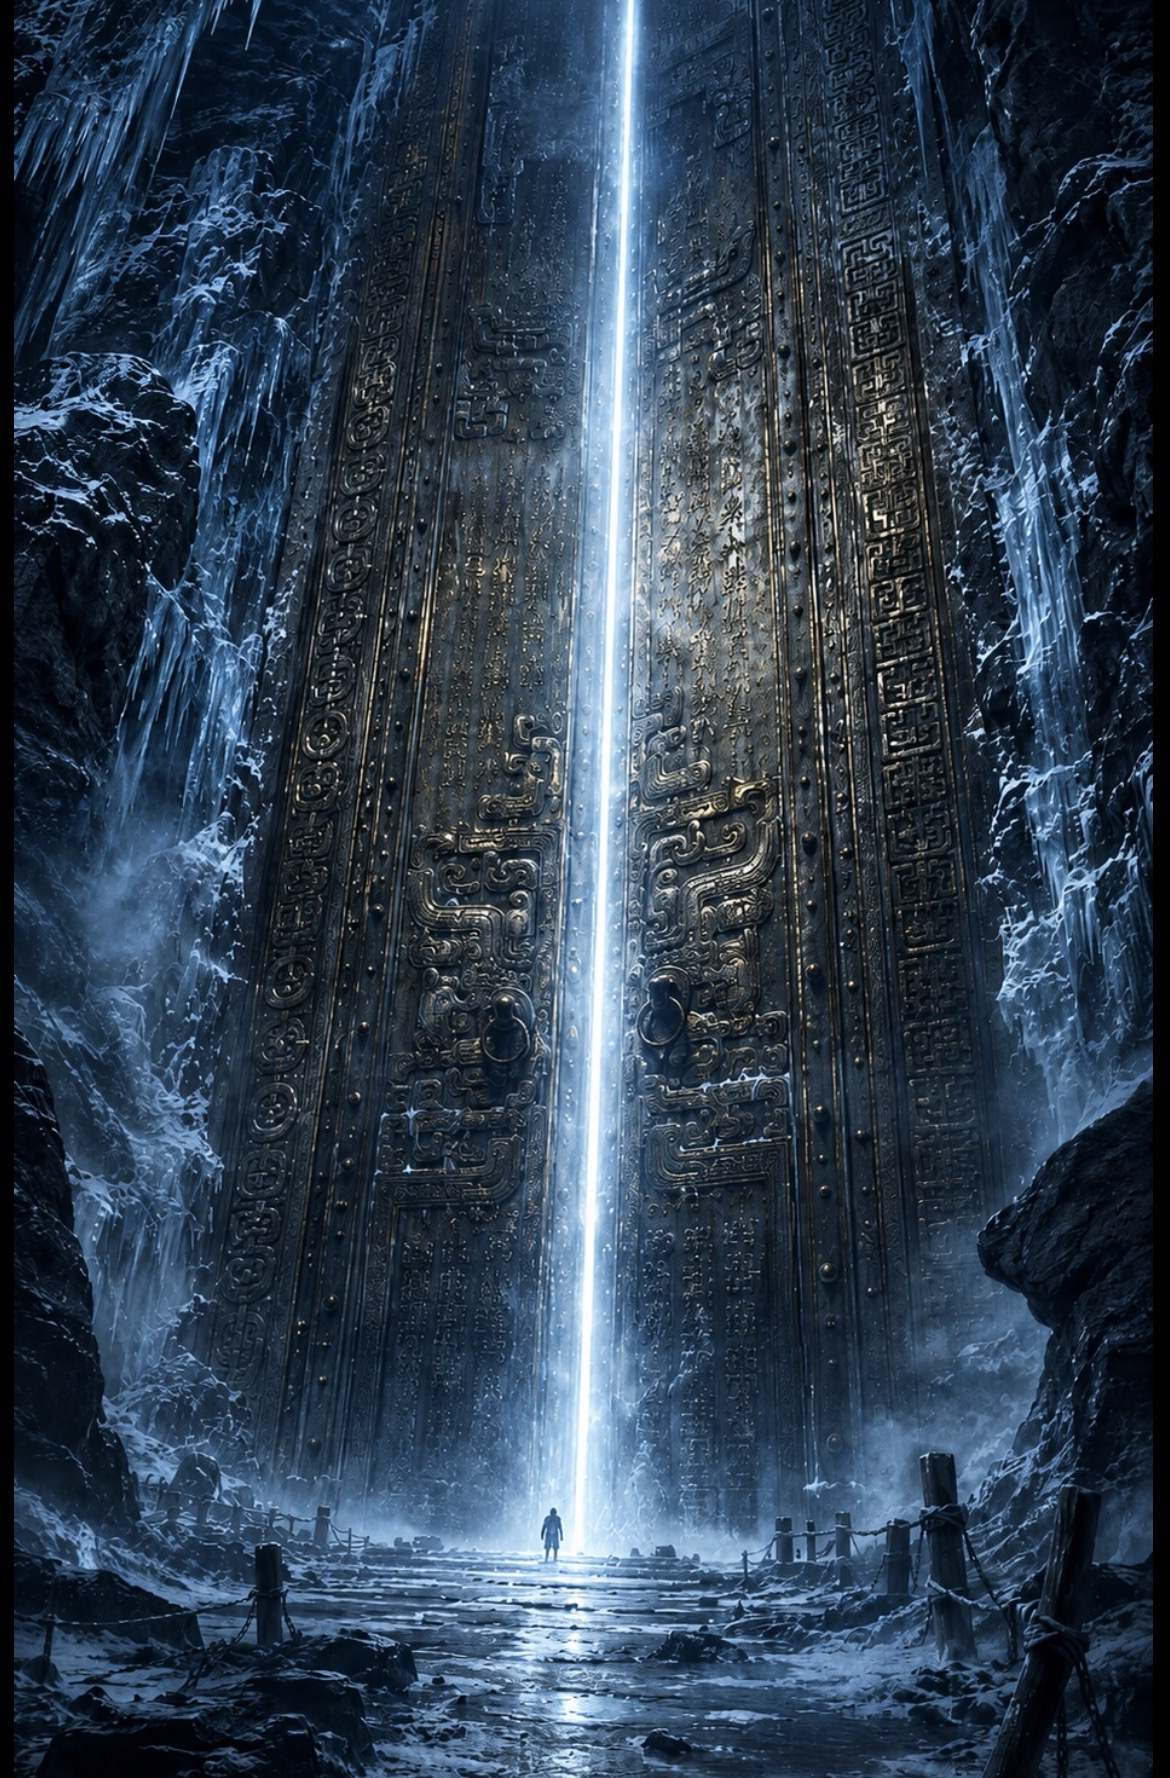
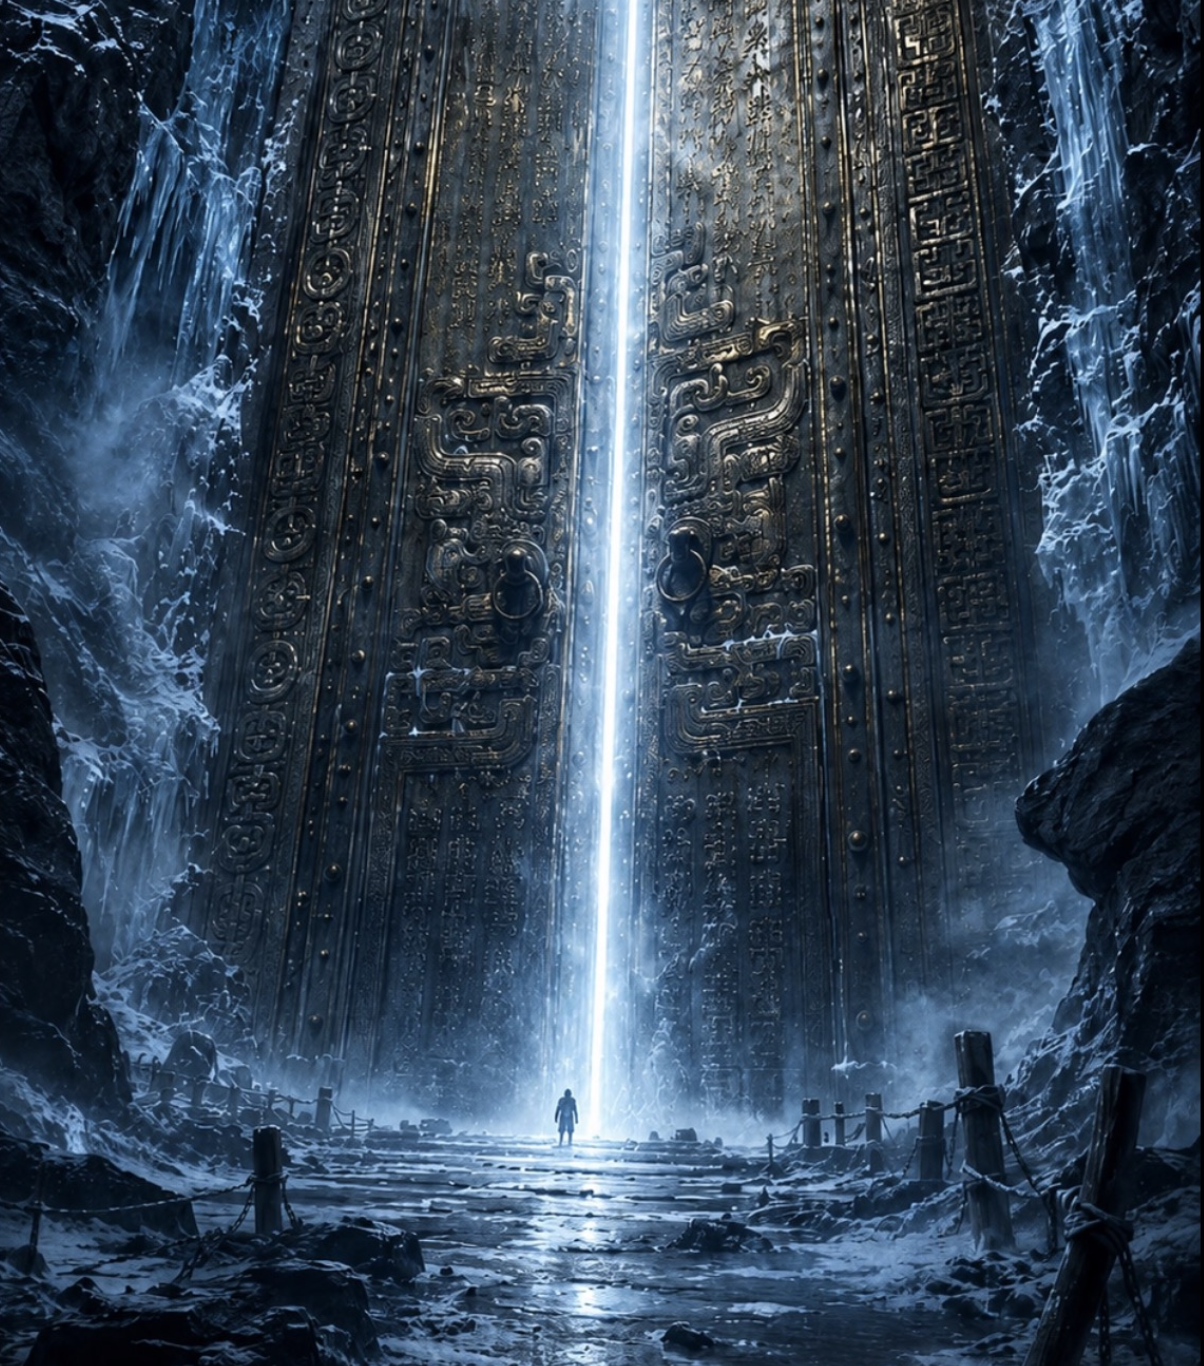
image.change

diff --git a/css/style.css b/css/style.css
@@ -17,3 +17,5 @@
 .case-no { font-family: system-ui, sans-serif; font-size: .75rem; letter-spacing: .18em; text-transform: uppercase; }
 body { line-height: 1.75; letter-spacing: .012em; }
 h1, h2, h3, .navbar-brand { font-family: "Libre Baskerville", Georgia, serif; line-height: 1.35; }
+.carousel-item img { aspect-ratio: 16 / 7; object-fit: cover; }
+.carousel-item img { aspect-ratio: 16 / 7; object-fit: cover; object-position: center 80%; }
